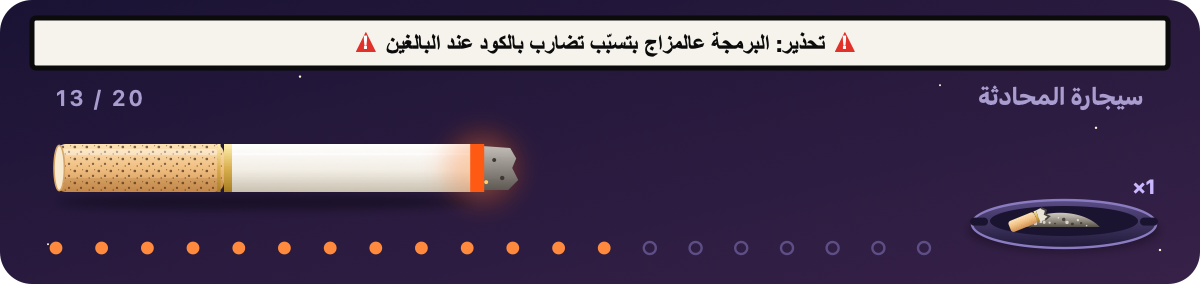
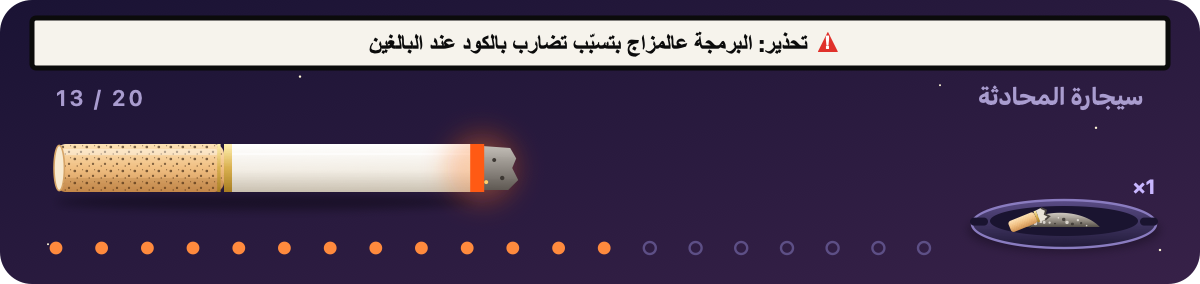
One warning sign, next to the warning word

Changed region(s): [[0.2775, 0.1127, 0.7092, 0.1972]]

diff --git a/hooks/art.ts b/hooks/art.ts
@@ -98,7 +98,7 @@ function frame(h: number, night: number): string {
 
 // ───────────── تحذير الباكيت ─────────────
 
-// مثلث أحمر مليان فيه علامة تعجب بيضا، لازق بالجملة من الجهتين — جزء من نفس السطر،
+// مثلث أحمر مليان فيه علامة تعجب بيضا — واحد بس، لازق بكلمة التحذير (كريم) — جزء من نفس السطر،
 // فبيمشي مع الجملة مهما كان طولها. ▲ بخط Arial (عرضه 1em بالماك وويندوز) و«!» فوقه بالنص.
 // السطر كله من اليسار لليمين؛ الجملة العربي/العبري بقطعة لحالها من اليمين لليسار جوّاته.
 function sign(): string {
@@ -116,7 +116,7 @@ function sign(): string {
 // شريط أبيض بإطار أسود متل تحذيرات الباكيت الحقيقية. بالرسمة المتحركة كل التحذيرات
 // جوّاته وبيتبدّلوا لحالهم كل 5 ثواني (بلا إعادة تحميل)؛ بالصورة الثابتة بيبيّن الأول بس.
 function warningStrip(texts: readonly string[], ln: Lang, animated: boolean): string {
-  // الجملة بالنص، والمثلث الأحمر لازق فيها من الجهتين (كريم).
+  // الجملة بالنص، ومثلث أحمر واحد لازق بكلمة التحذير (كريم).
   const rtl = ln !== 'en'
   const attrs = `x="300" y="25.6" text-anchor="middle" font-family="'Helvetica Neue', Arial, sans-serif" font-size="11.5" font-weight="800" fill="#0b0b0b"`
   const list = animated ? texts : texts.slice(0, 1)
@@ -127,7 +127,8 @@ function warningStrip(texts: readonly string[], ln: Lang, animated: boolean): st
   const lines = list
     .map((t, i) => {
       const words = rtl ? `<tspan direction="rtl" unicode-bidi="embed">${esc(t)}</tspan>` : esc(t)
-      const body = `${sign()}${words} ${sign()}`
+      // إنجليزي: المثلث قبل WARNING (يسار) · عربي/عبري: بعد «تحذير»/«אזהרה» (يمين).
+      const body = rtl ? `${words} ${sign()}` : `${sign()}${words}`
       if (n === 1) return `<text ${attrs}>${body}</text>`
       const a = (i / n).toFixed(4)
       const b = ((i + 1) / n).toFixed(4)

diff --git a/hooks/register.tsx b/hooks/register.tsx
@@ -422,16 +422,16 @@ export const register: Register = on => {
       if (isOut) {
         rows.push(<Text key="stats" color="#c8b6ff" bold>{card}</Text>)
       } else {
-        // التحذير بنص الشريط، والمثلث الأحمر لازق فيه من الجهتين.
+        // التحذير بنص الشريط، ومثلث أحمر واحد لازق بكلمة التحذير (يسار بالإنجليزي، يمين بالعربي/العبري).
         const body = ` ${warn} `
-        const padL = Math.max(0, Math.floor((inner - body.length - 6) / 2))
-        const padR = Math.max(0, inner - padL - body.length - 6)
+        const padL = Math.max(0, Math.floor((inner - body.length - 3) / 2))
+        const padR = Math.max(0, inner - padL - body.length - 3)
+        const sign = <Text key="sign" inverse bold color="#e0312b">{' ⚠ '}</Text>
+        const words = <Text key="words" inverse bold wrap="truncate">{body}</Text>
         rows.push(
           <Box key="warn" flexDirection="row">
             <Text inverse>{' '.repeat(padL)}</Text>
-            <Text inverse bold color="#e0312b">{' ⚠ '}</Text>
-            <Text inverse bold wrap="truncate">{body}</Text>
-            <Text inverse bold color="#e0312b">{' ⚠ '}</Text>
+            {ln === 'en' ? [sign, words] : [words, sign]}
             <Text inverse>{' '.repeat(padR)}</Text>
           </Box>,
         )

diff --git a/README.md b/README.md
@@ -37,7 +37,7 @@ claude plugin update chat-cigarette@chat-cigarette
 | | |
 |---|---|
 | 🔥 كل رسالة = نَفَس | 20 نَفَس بالسيجارة. الإشعارات ورسائل البرامج ما بتنحسب |
-| ⚠ تحذير الباكيت | شريط أبيض بإطار أسود متل الباكيت الحقيقي، والجملة بالنص ومثلث أحمر ⚠ لازق فيها من الجهتين. 10 تحذيرات بكل لغة جوّا الرسمة، وبيتبدّلوا **لحالهم** كل 5 ثواني («WARNING: Your manager can smell this commit») |
+| ⚠ تحذير الباكيت | شريط أبيض بإطار أسود متل الباكيت الحقيقي، والجملة بالنص ومثلث أحمر ⚠ لازق بكلمة التحذير. 10 تحذيرات بكل لغة جوّا الرسمة، وبيتبدّلوا **لحالهم** كل 5 ثواني («WARNING: Your manager can smell this commit») |
 | 💬 جملة جديدة | **50 جملة بكل لغة**: بالأول خفيفة، بالنص «قوم تحرّك»، بالآخر «جهّز حالك ترتاح». كل سيجارة بتبلّش من مكان جديد، عشان ما تزهق |
 | 🌆 السما | بتبلّش غروب وبتغمق لليل مع كل نَفَس |
 | 🧺 المكتة | مكتة (منفضة) بآخر السيجارة: كومة الرماد فيها بتكبر مع **كل سحبة**، وذرّات رماد بتوقع من الجمرة. وكل سيجارة بتخلص بتترك عقب بيضل لآخر اليوم (اليوم بيبلّش 5 الصبح) |
